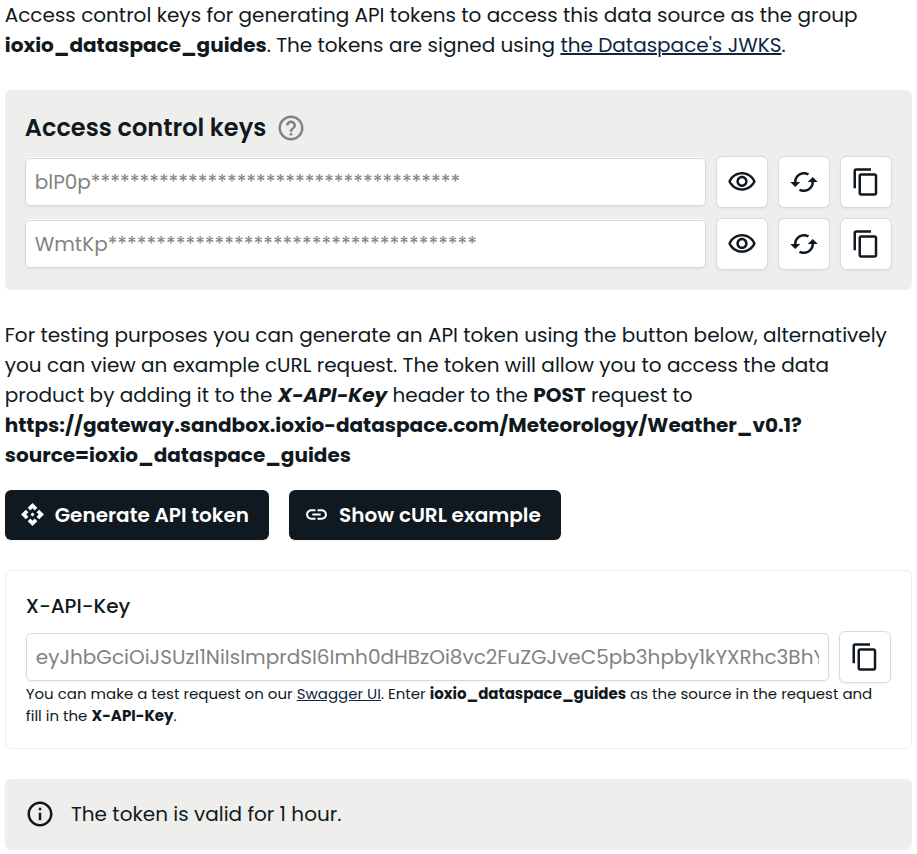
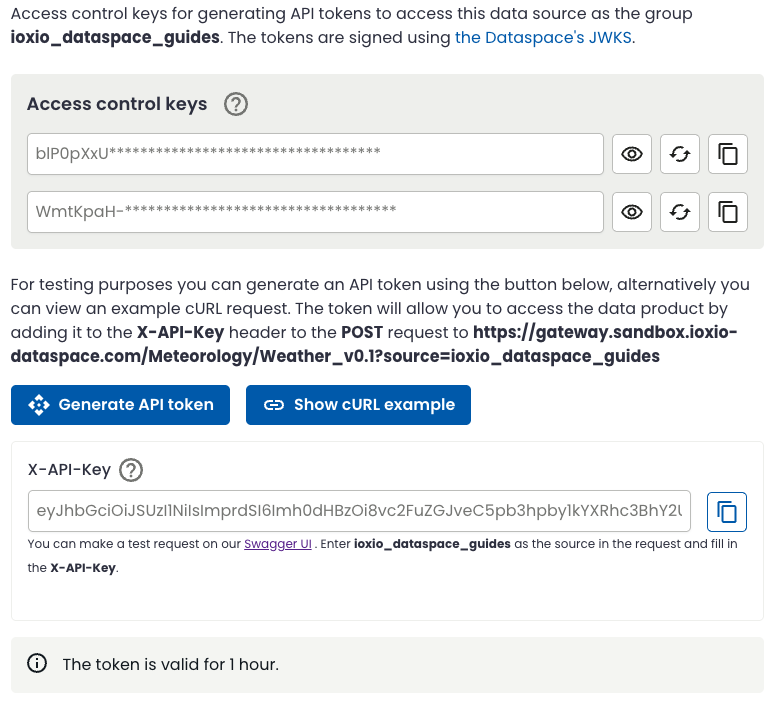
Improve creating a data source guide (#32)
* Minor fixes + update outdated screenshots

* Add details on how to use Swagger UI for testing the data source

* Update src/routes/guides/building-a-data-source/+page.svelte

* Update src/routes/guides/building-a-data-source/+page.svelte

* Update src/routes/guides/building-a-data-source/+page.svelte

* Run pre-commit

* Reformat manually a bit

Still passes pre-commit

* Fix link

---------

diff --git a/src/routes/guides/building-a-data-source/+page.svelte b/src/routes/guides/building-a-data-source/+page.svelte
@@ -36,7 +36,7 @@
     protocol.
   </li>
   <SectionTitle title="Choosing a data definition for your source" />
-  <p>You can find the available <em>Data definitions</em> via menu.</p>
+  <p>You can find the available <em>Data definitions</em> in the menu.</p>
   <GuideImage compact img={images.DEFINITIONS} />
   <p>
     If there is no definition for the type of data you want to provide, you can create your own
@@ -113,7 +113,7 @@
     Some dataspaces have moderated group creation. If the page has a notice saying so, and you are
     unable to create the group yourself, please follow the instructions visible in the page to get a
     group. Note, that if your organization already has a group, you will need to ask your group's
-    administrator to invite you to the existing group.
+    owner to invite you to the existing group.
   </p>
   <h3>Add your data source</h3>
   <p>
@@ -153,10 +153,6 @@
       <b>No access control</b> - The dataspace will allow anyone to request data from the data source.
     </li>
     <li>
-      <b>Self-managed API keys</b> - <em>X-API-Key</em> header will be required to be present, but its
-      contents will not be verified by the dataspace.
-    </li>
-    <li>
       <b>Dataspace verified API tokens</b> - The <em>X-API-Key</em> header will be required and
       verified by the dataspace. Once you save the data source with this setting you can manage
       which groups are allowed to access the data source. The members of the allowed groups will
@@ -183,6 +179,12 @@
     Each group that wants to access data from this data source, needs to be in this list. You don't
     need to add your own group explicitly, but if you want to add other groups for testing purposes,
     - click <em>+ Add</em>, type in the name of the group, click <em>+ Add</em> again.
+  </p>
+  <p>
+    To test your data source, you can either follow the more in-depth steps in the next
+    <A href="#test-your-data-source">Test your data source</A> section or head to the
+    <A href="#test-your-data-source-using-swagger-ui">Test your data source using Swagger UI</A> section
+    a bit further down for a simpler and quicker approach.
   </p>
   <SectionTitle title="Test your data source" />
   <p>
@@ -247,6 +249,53 @@
     source edit page after a short while:
   </p>
   <GuideImage img={images.ERRORS} />
+
+  <SectionTitle title="Test your data source using Swagger UI" />
+  <p>The quickest and easiest way to test your data source is using these steps with Swagger UI.</p>
+  <p>
+    From the edit data source view, you can quickly jump to the Access control keys for your source
+    by pressing the key icon in the list of <em>Allowed groups</em> section.
+  </p>
+  <GuideImage img={images.ALLOWED_GROUPS_KEY} />
+  <p>
+    Alternatively you can open the <em>Access control keys</em> from the menu and open the details for
+    your own source.
+  </p>
+  <p>
+    On the View access control keys page press the <em>Generate API token</em> button. This will for
+    convenience use one of the long-lived access control keys and generate a short lived API token (typically
+    valid for about an hour) and display it to you for easier testing.
+  </p>
+  <GuideImage img={images.GENERATE_API_TOKEN_BUTTON} />
+  <p>
+    Copy the generated API token, make a note of the source value and open the <em>Swagger UI</em> link.
+  </p>
+  <GuideImage img={images.COPY_API_TOKEN_AND_OPEN_SWAGGER_UI} />
+  <p>
+    Press the <em>Try it out</em> button in Swagger UI.
+  </p>
+  <GuideImage img={images.SWAGGER_UI_TRY_IT_OUT} />
+  <p>
+    Enter the name of the source (the one you were requested earlier to make a note of) and paste in
+    the API token you copied in the <em>x-api-key</em> field. Do any changes you want to the request
+    body and press the
+    <em>Execute</em> button to perform the request.
+  </p>
+  <GuideImage img={images.SWAGGER_UI_FILLED_IN_FORM} />
+  <p>
+    Swagger UI will in the <em>Responses</em> section show you the curl command corresponding to the
+    request that it made and also show the status code and body of the response.
+  </p>
+  <GuideImage img={images.SWAGGER_UI_RESPONSE} />
+  <p>
+    Check the status and response is as you expect or in case of an error check the details in the
+    error message. Please note that the API tokens are typically valid for only about an hour, so if
+    you do a lot of testing you might encounter the
+    <em>API token is not valid for this source or it has expired</em>
+    message, which means you need to go back to the Access control keys page and generate a fresh one
+    to use.
+  </p>
+
   <SectionTitle title="Publish the data source" />
   <p>
     When you've verified the data source works as intended you can publish the data source by

diff --git a/src/lib/utils.ts b/src/lib/utils.ts
@@ -1,5 +1,5 @@
 export function isInternalLink(url: string): boolean {
   const docsAbsoluteUrl = url.startsWith("https://docs.ioxio.dev/")
-  const relativeUrl = url.startsWith("/")
+  const relativeUrl = url.startsWith("/") || url.startsWith("#")
   return docsAbsoluteUrl || relativeUrl
 }
